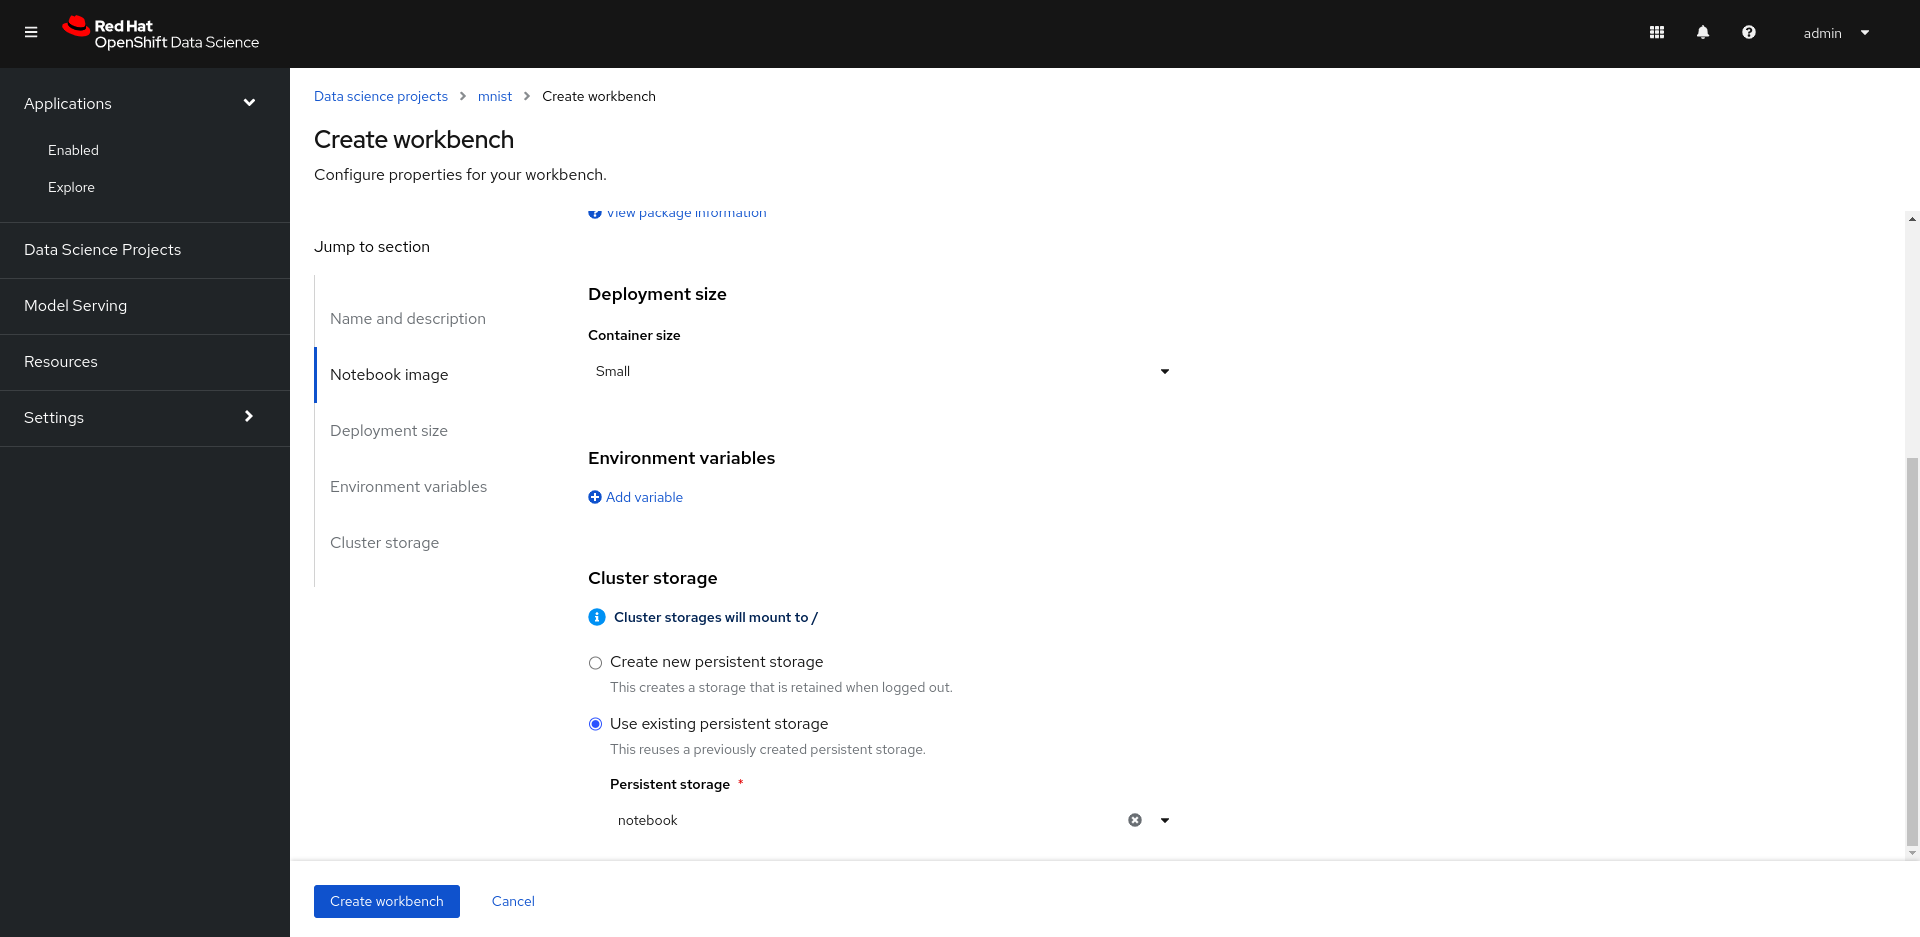
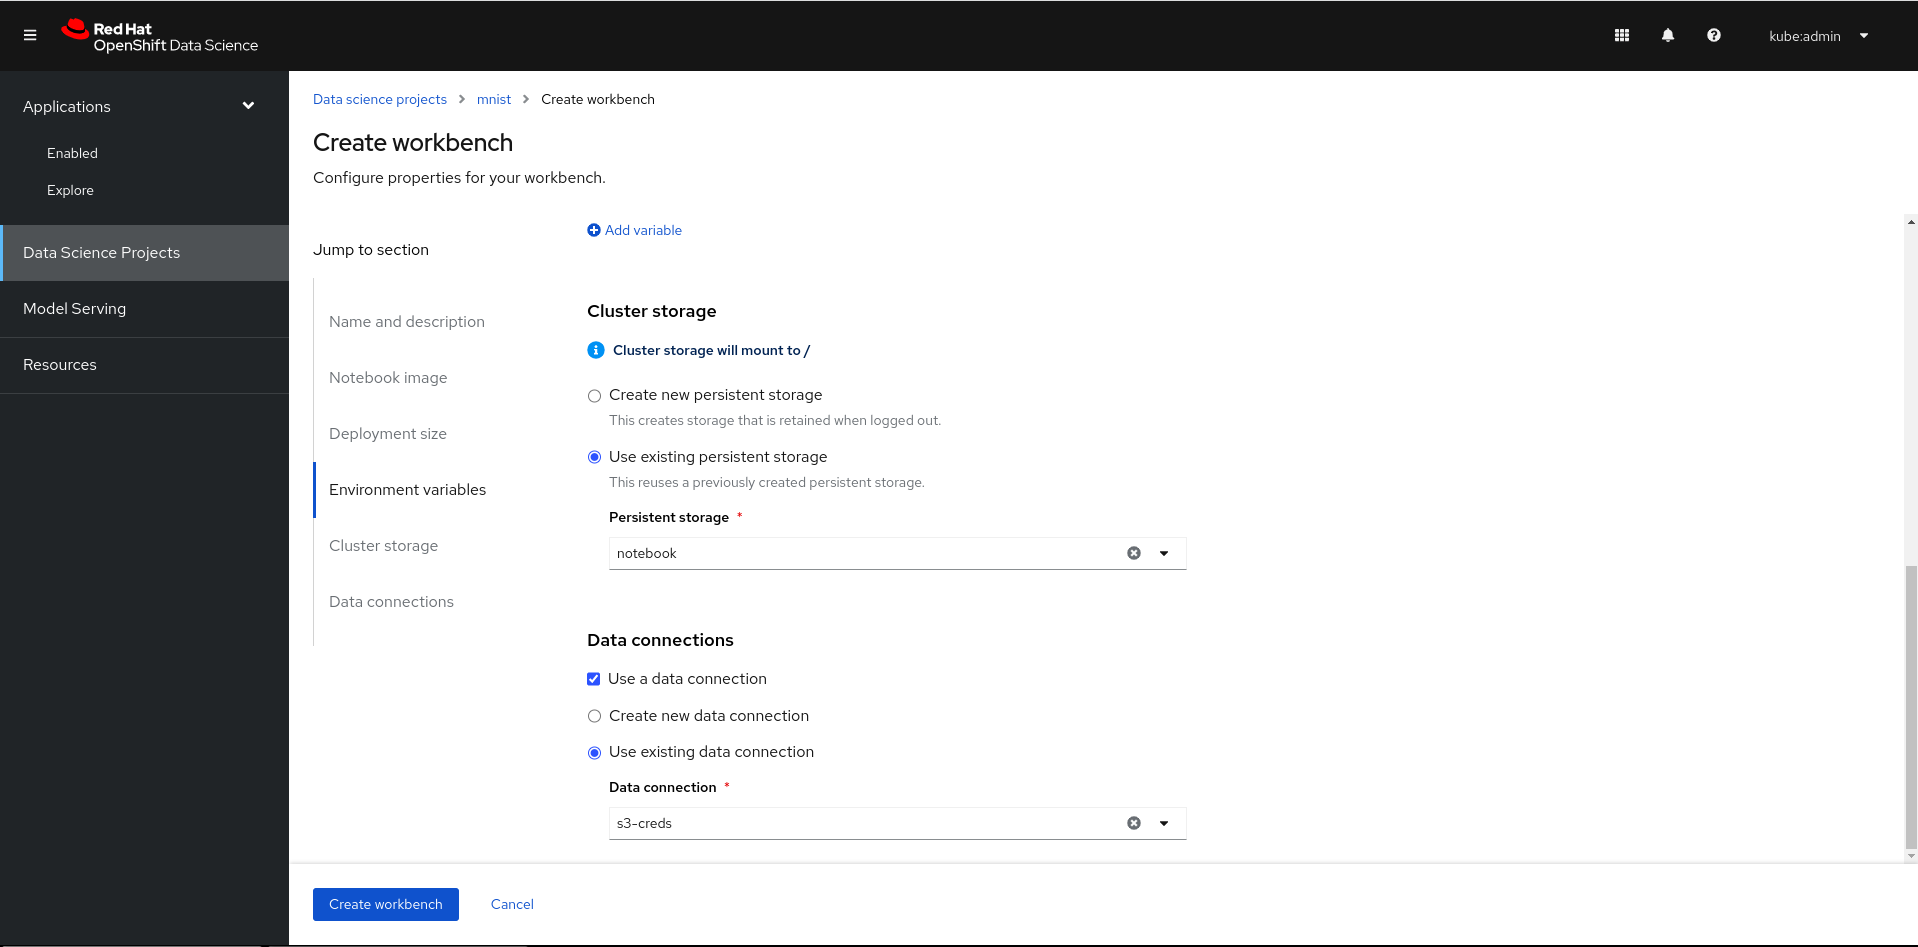
change instructions to add s3 creds - resolves #2

diff --git a/docs/lab-instructions.md b/docs/lab-instructions.md
@@ -14,26 +14,25 @@ Go to the **Data Science projects** tab and click on the pre-created **mnist** p
 
 ![data-science-project](./screenshots/ds-project.png)
 
- This project has been created with a pvc for the notebook filesystem (i.e the jupyterlab notebooks). It also has a data connection, which is a secret containing the minio credentials for the S3 storage.  
-You need to create a new workbench. You have to select a notebook image:
-- **If you have GPU available**, please select: "Custom Datascience Notebook Cuda 11.4" image.
-- **If you have CPU available**, please select: "Custom Datascience Notebook" image.
+This project has been created with a pvc for the notebook filesystem (i.e the jupyterlab notebooks). It also has a data connection, which is a secret containing the minio credentials for the S3 storage. We will connect those 2 storages to the workbench we are about to create.  
+Click on *create workbench* and fill up the form:
+- Add a name (we choose *notebook*)
+- Select a notebook image
+  - **If you have GPU available**, please select: "Custom Datascience Notebook Cuda 11.4" image.
+  - **If you have CPU available**, please select: "Custom Datascience Notebook" image.
+- Choose a container size (*small* is suffisent in our example)
+- Select a persistent storage. Use an existing one and select the one that has been created for you during the lab initialization. (named *notebook*).
+- Select a data connection (S3 storage). Use an existing one and select the one that has been created for you during the lab initialization. (named *s3-creds*).
 
-Click on *create workbench* and fill up the form. Don't forget to link the pre-created pvc to the notebook. Complete the form as bellow. We are using the GPU in this example:
+Refer to the bellow example where we deploy a notebook able to use GPU:
 
 ![create-workbench-1](./screenshots/create-notebook-1.png)
 
 ![create-workbench-2](./screenshots/create-notebook-2.png)
 
-### Edit the Data connections secret
-
-You also have to add the S3 credentials to the notebook you just created. This will restart the notebook as the credentials will be mount on a volume from a secret pre-created for you. See the picture bellow:
-
-![create-workbench-3](./screenshots/create-notebook-3.png)
-
 RHODS is going to pull a few container images especially the one used for the jupyterlab notebook server. The "Custom Datascience Notebook Cuda 11.4" notebook image is quite heavy (~ 6GB) as it contains the cuda library required to use the GPU in the model training. It can take a few moment for the first pull only (the image is copied in your openshift internal registry). Checkout the notebook status and click on the *open* link.
 
-![create-workbench-4](./screenshots/create-notebook-4.png)
+![create-workbench-3](./screenshots/create-notebook-3.png)
 
 ## JupyterLab notebooks
 
